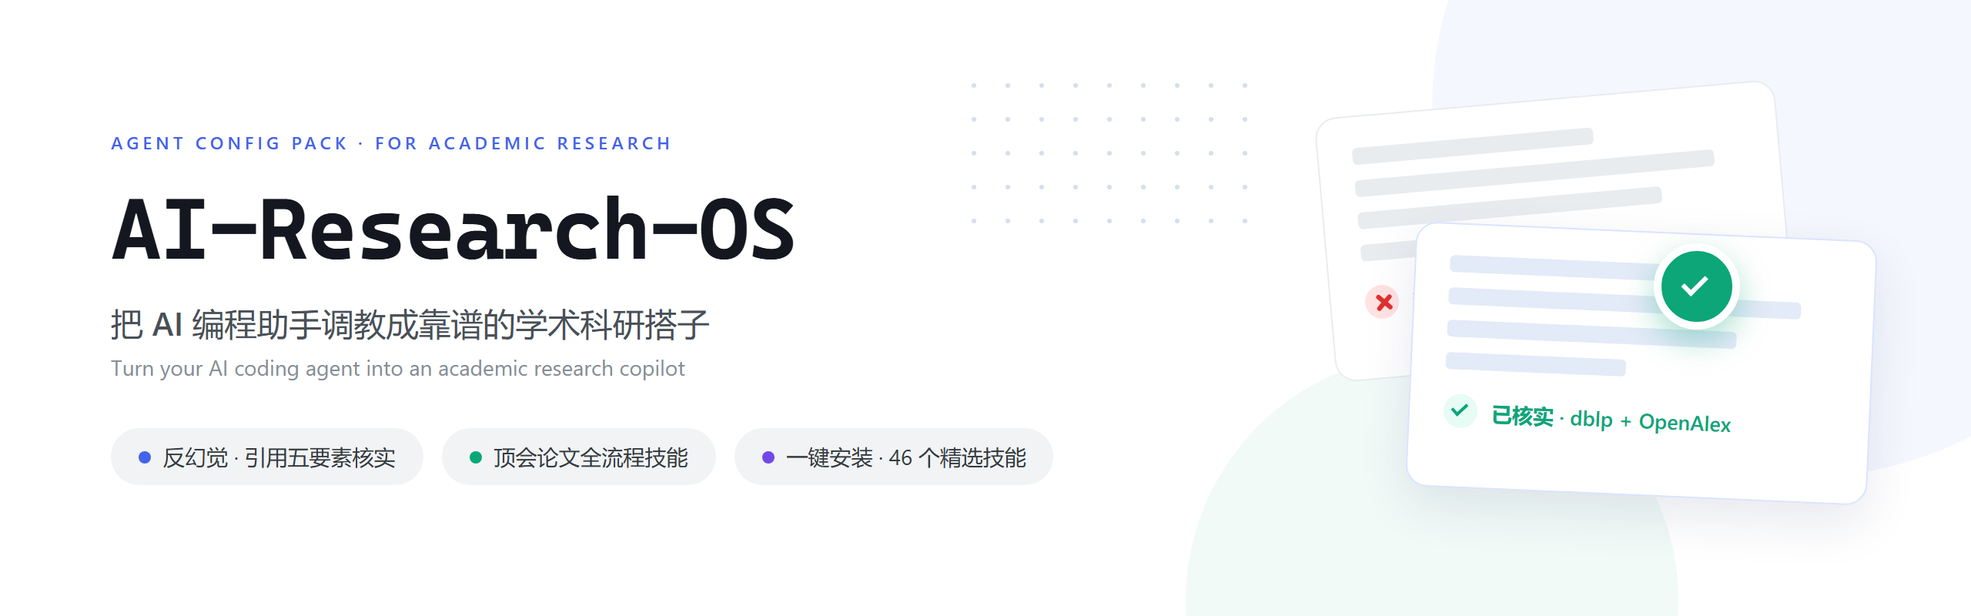
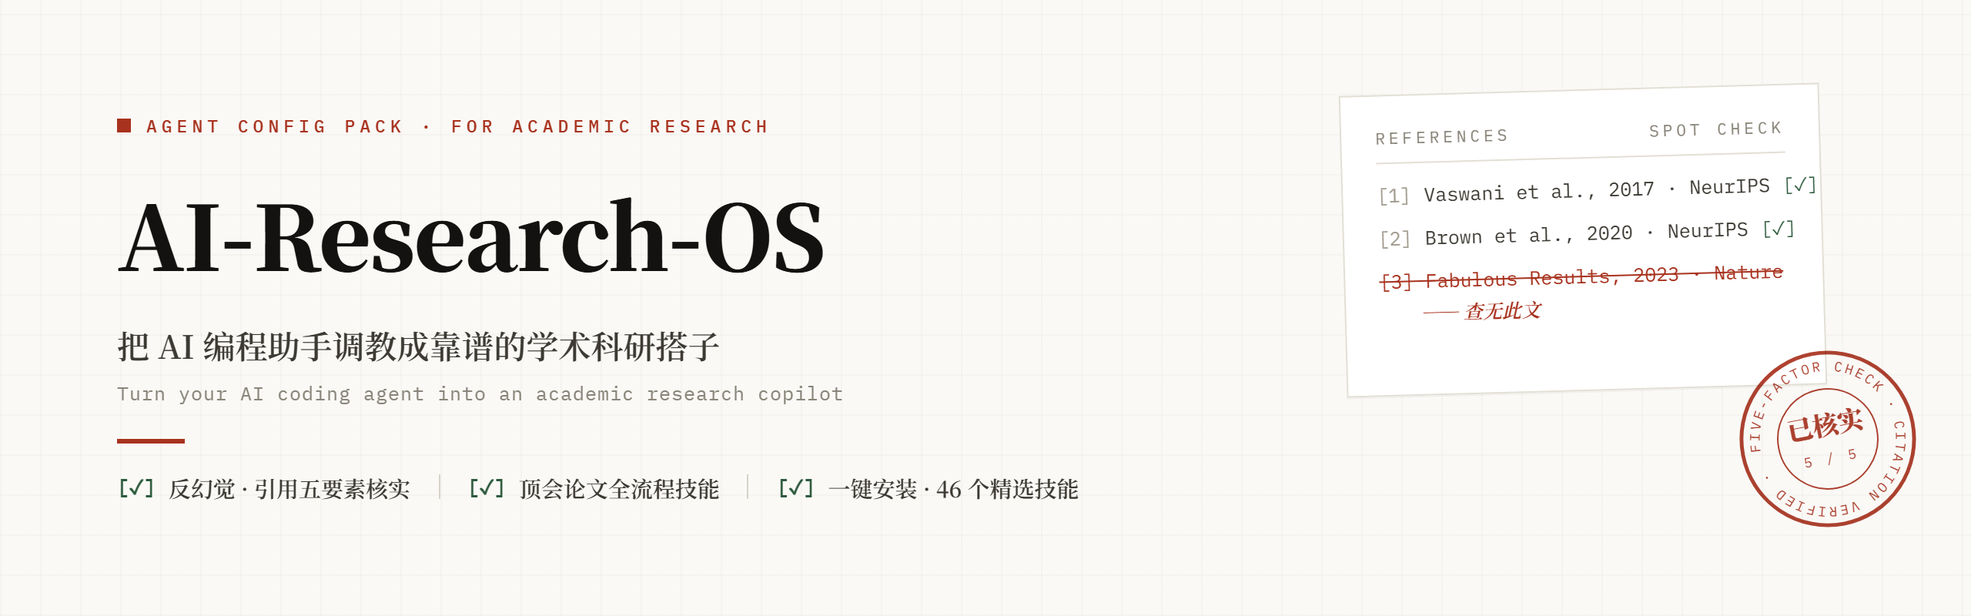
docs(figure): switch to academic-editorial style
- paper background + grid texture, serif titles (Noto Serif SC)
- mono index [01-07] + single accent red replaces candy palette
- footnote-style infra bar; citation spot-check card + rotated
  VERIFIED stamp on banner

diff --git a/docs/images/src/banner.html b/docs/images/src/banner.html
@@ -2,78 +2,80 @@
 <html>
 <head>
 <meta charset="utf-8">
+<link rel="preconnect" href="https://fonts.googleapis.com">
+<link href="https://fonts.googleapis.com/css2?family=IBM+Plex+Mono:wght@400;500;600&family=Noto+Serif+SC:wght@600;700;900&display=swap" rel="stylesheet">
 <style>
   * { margin:0; padding:0; box-sizing:border-box; }
-  body { background:#fff; font-family:"Segoe UI","Microsoft YaHei",sans-serif; }
-  #shot { width:1280px; height:400px; background:#FFFFFF; position:relative; overflow:hidden; }
-  .deco1 { position:absolute; width:480px; height:480px; border-radius:50%; background:rgba(76,110,245,0.055); right:-130px; top:-170px; }
-  .deco2 { position:absolute; width:320px; height:320px; border-radius:50%; background:rgba(12,166,120,0.06); right:190px; bottom:-150px; }
-  .dots { position:absolute; right:470px; top:54px; display:grid; grid-template-columns:repeat(9,1fr); gap:19px; }
-  .dots i { width:3px; height:3px; border-radius:50%; background:#D6DEEE; }
-  .left { position:absolute; left:72px; top:0; height:100%; display:flex; flex-direction:column; justify-content:center; }
-  .badge { font-size:11.5px; font-weight:600; letter-spacing:2.5px; color:#4263EB; }
-  h1 { font-family:"Cascadia Code","Consolas",monospace; font-size:56px; font-weight:700; color:#14171F; margin-top:16px; letter-spacing:-1px; }
-  .sub-cn { font-size:21px; font-weight:500; color:#495057; margin-top:14px; }
-  .sub-en { font-size:14px; color:#868E96; margin-top:6px; }
-  .chips { display:flex; gap:12px; margin-top:30px; }
-  .chip { display:flex; align-items:center; gap:8px; font-size:14px; color:#343A40; background:#F1F3F5; border-radius:999px; padding:9px 18px; white-space:nowrap; }
-  .chip i { width:8px; height:8px; border-radius:50%; }
-  .card { position:absolute; width:300px; height:172px; background:#fff; border-radius:14px; padding:20px 22px; }
-  .back { right:120px; top:64px; border:1px solid #E9ECEF; transform:rotate(-5deg); }
-  .front { right:64px; top:150px; border:1px solid #DBE4FF; box-shadow:0 12px 32px rgba(28,39,86,0.10); transform:rotate(2.5deg); }
-  .bar { height:11px; border-radius:3px; background:#E9ECEF; margin-bottom:10px; }
-  .front .bar { background:#E3EAF8; }
-  .verdict { display:flex; align-items:center; gap:9px; margin-top:16px; }
-  .icon { width:22px; height:22px; border-radius:50%; display:flex; align-items:center; justify-content:center; flex-shrink:0; }
-  .icon.no { background:#FFE3E3; }
-  .icon.yes { background:#E6FCF5; }
-  .x { position:relative; width:11px; height:11px; }
-  .x i { position:absolute; left:5px; top:-1px; width:2.5px; height:13px; background:#E03131; border-radius:2px; }
-  .x i:first-child { transform:rotate(45deg); }
-  .x i:last-child { transform:rotate(-45deg); }
-  .ck { width:10px; height:6px; border-left:2.5px solid #0CA678; border-bottom:2.5px solid #0CA678; transform:rotate(-45deg) translate(1px,-2px); }
-  .vt { font-size:13.5px; font-weight:600; }
-  .stamp { position:absolute; right:150px; top:158px; width:56px; height:56px; border-radius:50%; background:#0CA678; border:5px solid #fff; box-shadow:0 8px 20px rgba(12,166,120,0.35); display:flex; align-items:center; justify-content:center; z-index:3; }
-  .stamp .ck { width:16px; height:9px; border-left:3.5px solid #fff; border-bottom:3.5px solid #fff; transform:rotate(-45deg) translate(1px,-3px); }
+  body { background:#fff; }
+  #shot {
+    width:1280px; height:400px; position:relative; overflow:hidden;
+    background:#FAF9F6;
+    background-image:
+      repeating-linear-gradient(0deg, rgba(26,24,21,0.022) 0, rgba(26,24,21,0.022) 1px, transparent 1px, transparent 26px),
+      repeating-linear-gradient(90deg, rgba(26,24,21,0.022) 0, rgba(26,24,21,0.022) 1px, transparent 1px, transparent 26px);
+    font-family:"Noto Serif SC",Georgia,serif;
+    color:#1A1815;
+  }
+  .left { position:absolute; left:76px; top:0; height:100%; display:flex; flex-direction:column; justify-content:center; }
+  .badge { font-family:"IBM Plex Mono",monospace; font-size:11.5px; font-weight:500; letter-spacing:3px; color:#A8321E; display:flex; align-items:center; gap:10px; }
+  .badge::before { content:""; width:9px; height:9px; background:#A8321E; }
+  h1 { font-size:58px; font-weight:900; letter-spacing:-1px; margin-top:20px; color:#141210; }
+  .sub-cn { font-size:21px; font-weight:600; color:#3D3A33; margin-top:16px; }
+  .sub-en { font-family:"IBM Plex Mono",monospace; font-size:12.5px; color:#8A857A; margin-top:8px; letter-spacing:0.5px; }
+  .rule { width:44px; height:3px; background:#A8321E; margin:22px 0 18px; }
+  .feats { display:flex; align-items:center; }
+  .feat { font-size:14.5px; font-weight:600; color:#3D3A33; display:flex; align-items:center; gap:8px; }
+  .feat b { font-family:"IBM Plex Mono",monospace; font-weight:600; font-size:13px; color:#2D5A3D; }
+  .fsep { width:1px; height:16px; background:#D8D3C8; margin:0 18px; }
+  .refs {
+    position:absolute; right:96px; top:58px; width:312px; height:196px;
+    background:#FFFFFF; border:1px solid #E3DFD5;
+    transform:rotate(-1.6deg); padding:20px 22px;
+    box-shadow:0 1px 0 rgba(26,24,21,0.04);
+  }
+  .rhead { font-family:"IBM Plex Mono",monospace; font-size:10.5px; letter-spacing:2.5px; color:#8A857A; padding-bottom:9px; border-bottom:1px solid #E3DFD5; display:flex; justify-content:space-between; }
+  .ritem { display:flex; align-items:baseline; gap:8px; margin-top:12px; font-family:"IBM Plex Mono",monospace; font-size:12.5px; color:#3D3A33; white-space:nowrap; }
+  .ritem .no { color:#A29C8F; }
+  .ritem .ok { margin-left:auto; color:#2D5A3D; font-size:12px; }
+  .rbad { margin-top:12px; }
+  .rbad .line { font-family:"IBM Plex Mono",monospace; font-size:12.5px; color:#A8321E; text-decoration:line-through; text-decoration-thickness:1px; white-space:nowrap; }
+  .rbad .mark { font-size:12.5px; color:#A8321E; margin-top:4px; font-style:italic; font-weight:600; padding-left:26px; }
+  .stamp { position:absolute; right:34px; top:226px; width:118px; height:118px; transform:rotate(-11deg); mix-blend-mode:multiply; opacity:0.92; z-index:3; }
 </style>
 </head>
 <body>
 <div id="shot">
-  <div class="deco1"></div>
-  <div class="deco2"></div>
-  <div class="dots">
-    <i></i><i></i><i></i><i></i><i></i><i></i><i></i><i></i><i></i>
-    <i></i><i></i><i></i><i></i><i></i><i></i><i></i><i></i><i></i>
-    <i></i><i></i><i></i><i></i><i></i><i></i><i></i><i></i><i></i>
-    <i></i><i></i><i></i><i></i><i></i><i></i><i></i><i></i><i></i>
-    <i></i><i></i><i></i><i></i><i></i><i></i><i></i><i></i><i></i>
-  </div>
   <div class="left">
     <div class="badge">AGENT CONFIG PACK · FOR ACADEMIC RESEARCH</div>
     <h1>AI-Research-OS</h1>
     <div class="sub-cn">把 AI 编程助手调教成靠谱的学术科研搭子</div>
     <div class="sub-en">Turn your AI coding agent into an academic research copilot</div>
-    <div class="chips">
-      <span class="chip"><i style="background:#4263EB"></i>反幻觉 · 引用五要素核实</span>
-      <span class="chip"><i style="background:#0CA678"></i>顶会论文全流程技能</span>
-      <span class="chip"><i style="background:#7048E8"></i>一键安装 · 46 个精选技能</span>
+    <div class="rule"></div>
+    <div class="feats">
+      <span class="feat"><b>[✓]</b>反幻觉 · 引用五要素核实</span>
+      <span class="fsep"></span>
+      <span class="feat"><b>[✓]</b>顶会论文全流程技能</span>
+      <span class="fsep"></span>
+      <span class="feat"><b>[✓]</b>一键安装 · 46 个精选技能</span>
     </div>
   </div>
-  <div class="card back">
-    <div class="bar" style="width:62%"></div>
-    <div class="bar" style="width:92%"></div>
-    <div class="bar" style="width:78%"></div>
-    <div class="bar" style="width:50%; margin-bottom:0"></div>
-    <div class="verdict"><span class="icon no"><span class="x"><i></i><i></i></span></span><span class="vt" style="color:#E03131">查无此文</span></div>
+  <div class="refs">
+    <div class="rhead"><span>REFERENCES</span><span>SPOT CHECK</span></div>
+    <div class="ritem"><span class="no">[1]</span>Vaswani et al., 2017 · NeurIPS<span class="ok">[✓]</span></div>
+    <div class="ritem"><span class="no">[2]</span>Brown et al., 2020 · NeurIPS<span class="ok">[✓]</span></div>
+    <div class="rbad">
+      <div class="line">[3] Fabulous Results, 2023 · Nature</div>
+      <div class="mark">—— 查无此文</div>
+    </div>
   </div>
-  <div class="card front">
-    <div class="bar" style="width:58%"></div>
-    <div class="bar" style="width:90%"></div>
-    <div class="bar" style="width:74%"></div>
-    <div class="bar" style="width:46%; margin-bottom:0"></div>
-    <div class="verdict"><span class="icon yes"><span class="ck"></span></span><span class="vt" style="color:#0CA678">已核实 · dblp + OpenAlex</span></div>
-  </div>
-  <div class="stamp"><span class="ck"></span></div>
+  <svg class="stamp" viewBox="0 0 120 120">
+    <defs><path id="cir" d="M60,60 m-45,0 a45,45 0 1,1 90,0 a45,45 0 1,1 -90,0"/></defs>
+    <circle cx="60" cy="60" r="57" fill="none" stroke="#A8321E" stroke-width="2.5"/>
+    <circle cx="60" cy="60" r="33" fill="none" stroke="#A8321E" stroke-width="1"/>
+    <text font-family="IBM Plex Mono,monospace" font-size="9" letter-spacing="1.5" fill="#A8321E"><textPath href="#cir">FIVE-FACTOR CHECK · CITATION VERIFIED ·</textPath></text>
+    <text x="60" y="57" text-anchor="middle" font-family="'Noto Serif SC',serif" font-weight="900" font-size="17" fill="#A8321E">已核实</text>
+    <text x="60" y="76" text-anchor="middle" font-family="IBM Plex Mono,monospace" font-size="9" letter-spacing="2" fill="#A8321E">5 / 5</text>
+  </svg>
 </div>
 </body>
 </html>

diff --git a/docs/images/src/workflow-dark.html b/docs/images/src/workflow-dark.html
@@ -2,27 +2,38 @@
 <html>
 <head>
 <meta charset="utf-8">
+<link rel="preconnect" href="https://fonts.googleapis.com">
+<link href="https://fonts.googleapis.com/css2?family=IBM+Plex+Mono:wght@400;500;600&family=Noto+Serif+SC:wght@600;700;900&display=swap" rel="stylesheet">
 <style>
   * { margin:0; padding:0; box-sizing:border-box; }
-  body { background:#0d1117; font-family:"Segoe UI","Microsoft YaHei",sans-serif; }
-  #shot { width:830px; height:480px; background:#0D1117; display:flex; flex-direction:column; }
-  .main { flex:1; display:flex; padding:38px 40px 22px; gap:40px; min-height:0; }
-  .left { width:240px; flex-shrink:0; display:flex; flex-direction:column; padding-top:6px; }
-  .eyebrow { font-size:12px; font-weight:600; letter-spacing:3px; color:#79C0FF; }
-  .title { font-size:30px; font-weight:700; color:#F0F6FC; margin-top:10px; }
-  .rule { width:34px; height:3px; background:#1F6FEB; border-radius:2px; margin:16px 0 14px; }
-  .desc { font-size:15px; color:#8B949E; line-height:1.75; }
-  .note { margin-top:auto; font-size:12.5px; color:#6E7681; line-height:1.6; }
-  .steps { flex:1; display:flex; flex-direction:column; justify-content:space-between; position:relative; padding:2px 0; }
-  .vline { position:absolute; left:12.5px; top:16px; bottom:16px; width:2px; background:#21262D; border-radius:1px; }
-  .row { display:flex; align-items:center; gap:14px; position:relative; }
-  .num { width:27px; height:27px; border-radius:50%; color:#0D1117; font-size:13.5px; font-weight:700; display:flex; align-items:center; justify-content:center; flex-shrink:0; }
-  .name { font-size:18px; font-weight:600; color:#E6EDF3; width:92px; flex-shrink:0; }
-  .chip { font-family:"Cascadia Code","Consolas",monospace; font-size:13px; color:#79C0FF; background:rgba(88,166,255,0.12); border:1px solid rgba(88,166,255,0.28); border-radius:6px; padding:5px 11px; white-space:nowrap; }
-  .base { height:56px; background:#161B22; border-top:1px solid #21262D; display:flex; align-items:center; padding:0 40px; gap:20px; flex-shrink:0; }
-  .btag { font-size:13px; font-weight:600; color:#C9D1D9; flex-shrink:0; }
-  .bitem { display:flex; align-items:center; gap:7px; font-size:13px; color:#C9D1D9; white-space:nowrap; }
-  .dot { width:7px; height:7px; border-radius:2px; background:#58A6FF; flex-shrink:0; }
+  body { background:#161310; }
+  #shot {
+    width:830px; height:480px; display:flex; flex-direction:column;
+    background:#161310;
+    background-image:
+      repeating-linear-gradient(0deg, rgba(240,233,220,0.022) 0, rgba(240,233,220,0.022) 1px, transparent 1px, transparent 26px),
+      repeating-linear-gradient(90deg, rgba(240,233,220,0.022) 0, rgba(240,233,220,0.022) 1px, transparent 1px, transparent 26px);
+    font-family:"Noto Serif SC",Georgia,serif; color:#ECE7DC;
+  }
+  .main { flex:1; display:flex; padding:40px 42px 20px; gap:42px; min-height:0; }
+  .left { width:238px; flex-shrink:0; display:flex; flex-direction:column; padding-top:4px; }
+  .eyebrow { font-family:"IBM Plex Mono",monospace; font-size:11px; font-weight:600; letter-spacing:3px; color:#D08770; }
+  .title { font-size:31px; font-weight:900; color:#F4F0E6; margin-top:12px; }
+  .rule { width:30px; height:3px; background:#D08770; margin:16px 0 14px; }
+  .desc { font-size:15px; color:#A39C8E; line-height:1.85; }
+  .note { margin-top:auto; font-family:"IBM Plex Mono",monospace; font-size:11.5px; color:#7A7466; line-height:1.7; }
+  .steps { flex:1; display:flex; flex-direction:column; justify-content:space-between; position:relative; padding:4px 0; }
+  .vline { position:absolute; left:19px; top:18px; bottom:18px; width:1px; background:#2E2A24; }
+  .row { display:flex; align-items:center; gap:16px; position:relative; }
+  .no { font-family:"IBM Plex Mono",monospace; font-size:13px; font-weight:600; color:#D08770; width:40px; flex-shrink:0; background:#161310; }
+  .name { font-size:18px; font-weight:700; color:#F0EBDF; width:94px; flex-shrink:0; }
+  .skill { font-family:"IBM Plex Mono",monospace; font-size:12.5px; color:#A39C8E; border-left:2px solid #D08770; padding-left:11px; white-space:nowrap; }
+  .base { flex-shrink:0; margin:0 42px; padding:12px 0 18px; border-top:1px solid #3A352C; position:relative; }
+  .base::before { content:""; position:absolute; top:-1px; left:0; width:64px; border-top:2px solid #F0EBDF; }
+  .base .in { display:flex; align-items:baseline; gap:14px; white-space:nowrap; }
+  .btag { font-size:13.5px; font-weight:700; color:#F0EBDF; }
+  .bsep { font-family:"IBM Plex Mono",monospace; font-size:12.5px; color:#7A7466; }
+  .bitem { font-family:"IBM Plex Mono",monospace; font-size:12.5px; color:#A39C8E; }
 </style>
 </head>
 <body>
@@ -33,25 +44,31 @@
       <div class="title">科研工作流全景</div>
       <div class="rule"></div>
       <div class="desc">从定方向到投稿防守，每一步都有对应的技能与工具兜底。</div>
-      <div class="note">46 个精选技能 · 按场景自动触发</div>
+      <div class="note">46 skills · auto-triggered<br>figures rebuilt from src/</div>
     </div>
     <div class="steps">
       <div class="vline"></div>
-      <div class="row"><span class="num" style="background:#748FFC">1</span><span class="name">定方向</span><span class="chip">/phd-skills:gaps</span></div>
-      <div class="row"><span class="num" style="background:#6D9EF7">2</span><span class="name">查文献</span><span class="chip">paper-search MCP</span></div>
-      <div class="row"><span class="num" style="background:#63ADF0">3</span><span class="name">复现</span><span class="chip">reproduce</span></div>
-      <div class="row"><span class="num" style="background:#57BBE6">4</span><span class="name">跑实验</span><span class="chip">launch · compare · debug</span></div>
-      <div class="row"><span class="num" style="background:#45C5DA">5</span><span class="name">画图</span><span class="chip">scientific-visualization</span></div>
-      <div class="row"><span class="num" style="background:#38CDBD">6</span><span class="name">写论文</span><span class="chip">research-paper-writing</span></div>
-      <div class="row"><span class="num" style="background:#2DD4A7">7</span><span class="name">投稿防守</span><span class="chip">fortify · factcheck</span></div>
+      <div class="row"><span class="no">[01]</span><span class="name">定方向</span><span class="skill">/phd-skills:gaps</span></div>
+      <div class="row"><span class="no">[02]</span><span class="name">查文献</span><span class="skill">paper-search MCP</span></div>
+      <div class="row"><span class="no">[03]</span><span class="name">复现</span><span class="skill">reproduce</span></div>
+      <div class="row"><span class="no">[04]</span><span class="name">跑实验</span><span class="skill">launch · compare · debug</span></div>
+      <div class="row"><span class="no">[05]</span><span class="name">画图</span><span class="skill">scientific-visualization</span></div>
+      <div class="row"><span class="no">[06]</span><span class="name">写论文</span><span class="skill">research-paper-writing</span></div>
+      <div class="row"><span class="no">[07]</span><span class="name">投稿防守</span><span class="skill">fortify · factcheck</span></div>
     </div>
   </div>
   <div class="base">
-    <span class="btag">支撑层</span>
-    <span class="bitem"><span class="dot"></span>AGENTS.md · 反幻觉纪律</span>
-    <span class="bitem"><span class="dot"></span>paper-search MCP · 20+ 源</span>
-    <span class="bitem"><span class="dot"></span>proxy · 代理自感应</span>
-    <span class="bitem"><span class="dot"></span>notify · 提醒</span>
+    <div class="in">
+      <span class="btag">支撑层</span>
+      <span class="bsep">──</span>
+      <span class="bitem">AGENTS.md 反幻觉纪律</span>
+      <span class="bsep">/</span>
+      <span class="bitem">paper-search MCP · 20+ 源</span>
+      <span class="bsep">/</span>
+      <span class="bitem">proxy 代理自感应</span>
+      <span class="bsep">/</span>
+      <span class="bitem">notify 提醒</span>
+    </div>
   </div>
 </div>
 </body>

diff --git a/docs/images/src/workflow-light.html b/docs/images/src/workflow-light.html
@@ -2,27 +2,38 @@
 <html>
 <head>
 <meta charset="utf-8">
+<link rel="preconnect" href="https://fonts.googleapis.com">
+<link href="https://fonts.googleapis.com/css2?family=IBM+Plex+Mono:wght@400;500;600&family=Noto+Serif+SC:wght@600;700;900&display=swap" rel="stylesheet">
 <style>
   * { margin:0; padding:0; box-sizing:border-box; }
-  body { background:#fff; font-family:"Segoe UI","Microsoft YaHei",sans-serif; }
-  #shot { width:830px; height:480px; background:#FFFFFF; display:flex; flex-direction:column; }
-  .main { flex:1; display:flex; padding:38px 40px 22px; gap:40px; min-height:0; }
-  .left { width:240px; flex-shrink:0; display:flex; flex-direction:column; padding-top:6px; }
-  .eyebrow { font-size:12px; font-weight:600; letter-spacing:3px; color:#4263EB; }
-  .title { font-size:30px; font-weight:700; color:#1A1B25; margin-top:10px; }
-  .rule { width:34px; height:3px; background:#4263EB; border-radius:2px; margin:16px 0 14px; }
-  .desc { font-size:15px; color:#495057; line-height:1.75; }
-  .note { margin-top:auto; font-size:12.5px; color:#868E96; line-height:1.6; }
-  .steps { flex:1; display:flex; flex-direction:column; justify-content:space-between; position:relative; padding:2px 0; }
-  .vline { position:absolute; left:12.5px; top:16px; bottom:16px; width:2px; background:#E9ECEF; border-radius:1px; }
-  .row { display:flex; align-items:center; gap:14px; position:relative; }
-  .num { width:27px; height:27px; border-radius:50%; color:#fff; font-size:13.5px; font-weight:600; display:flex; align-items:center; justify-content:center; flex-shrink:0; }
-  .name { font-size:18px; font-weight:600; color:#212529; width:92px; flex-shrink:0; }
-  .chip { font-family:"Cascadia Code","Consolas",monospace; font-size:13px; color:#364FC7; background:#EDF2FF; border:1px solid #DBE4FF; border-radius:6px; padding:5px 11px; white-space:nowrap; }
-  .base { height:56px; background:#F8F9FA; border-top:1px solid #E9ECEF; display:flex; align-items:center; padding:0 40px; gap:20px; flex-shrink:0; }
-  .btag { font-size:13px; font-weight:600; color:#495057; flex-shrink:0; }
-  .bitem { display:flex; align-items:center; gap:7px; font-size:13px; color:#495057; white-space:nowrap; }
-  .dot { width:7px; height:7px; border-radius:2px; background:#4263EB; flex-shrink:0; }
+  body { background:#fff; }
+  #shot {
+    width:830px; height:480px; display:flex; flex-direction:column;
+    background:#FAF9F6;
+    background-image:
+      repeating-linear-gradient(0deg, rgba(26,24,21,0.02) 0, rgba(26,24,21,0.02) 1px, transparent 1px, transparent 26px),
+      repeating-linear-gradient(90deg, rgba(26,24,21,0.02) 0, rgba(26,24,21,0.02) 1px, transparent 1px, transparent 26px);
+    font-family:"Noto Serif SC",Georgia,serif; color:#1A1815;
+  }
+  .main { flex:1; display:flex; padding:40px 42px 20px; gap:42px; min-height:0; }
+  .left { width:238px; flex-shrink:0; display:flex; flex-direction:column; padding-top:4px; }
+  .eyebrow { font-family:"IBM Plex Mono",monospace; font-size:11px; font-weight:600; letter-spacing:3px; color:#A8321E; }
+  .title { font-size:31px; font-weight:900; color:#141210; margin-top:12px; }
+  .rule { width:30px; height:3px; background:#A8321E; margin:16px 0 14px; }
+  .desc { font-size:15px; color:#57534A; line-height:1.85; }
+  .note { margin-top:auto; font-family:"IBM Plex Mono",monospace; font-size:11.5px; color:#A29C8F; line-height:1.7; }
+  .steps { flex:1; display:flex; flex-direction:column; justify-content:space-between; position:relative; padding:4px 0; }
+  .vline { position:absolute; left:19px; top:18px; bottom:18px; width:1px; background:#E0DCD2; }
+  .row { display:flex; align-items:center; gap:16px; position:relative; }
+  .no { font-family:"IBM Plex Mono",monospace; font-size:13px; font-weight:600; color:#A8321E; width:40px; flex-shrink:0; background:#FAF9F6; }
+  .name { font-size:18px; font-weight:700; color:#211E19; width:94px; flex-shrink:0; }
+  .skill { font-family:"IBM Plex Mono",monospace; font-size:12.5px; color:#57534A; border-left:2px solid #A8321E; padding-left:11px; white-space:nowrap; }
+  .base { flex-shrink:0; margin:0 42px; padding:12px 0 18px; border-top:1px solid #D8D3C8; position:relative; }
+  .base::before { content:""; position:absolute; top:-1px; left:0; width:64px; border-top:2px solid #1A1815; }
+  .base .in { display:flex; align-items:baseline; gap:14px; white-space:nowrap; }
+  .btag { font-size:13.5px; font-weight:700; color:#211E19; }
+  .bsep { font-family:"IBM Plex Mono",monospace; font-size:12.5px; color:#A29C8F; }
+  .bitem { font-family:"IBM Plex Mono",monospace; font-size:12.5px; color:#57534A; }
 </style>
 </head>
 <body>
@@ -33,25 +44,31 @@
       <div class="title">科研工作流全景</div>
       <div class="rule"></div>
       <div class="desc">从定方向到投稿防守，每一步都有对应的技能与工具兜底。</div>
-      <div class="note">46 个精选技能 · 按场景自动触发</div>
+      <div class="note">46 skills · auto-triggered<br>figures rebuilt from src/</div>
     </div>
     <div class="steps">
       <div class="vline"></div>
-      <div class="row"><span class="num" style="background:#364FC7">1</span><span class="name">定方向</span><span class="chip">/phd-skills:gaps</span></div>
-      <div class="row"><span class="num" style="background:#2E62C6">2</span><span class="name">查文献</span><span class="chip">paper-search MCP</span></div>
-      <div class="row"><span class="num" style="background:#2675C4">3</span><span class="name">复现</span><span class="chip">reproduce</span></div>
-      <div class="row"><span class="num" style="background:#1D88C0">4</span><span class="name">跑实验</span><span class="chip">launch · compare · debug</span></div>
-      <div class="row"><span class="num" style="background:#1798B2">5</span><span class="name">画图</span><span class="chip">scientific-visualization</span></div>
-      <div class="row"><span class="num" style="background:#12A38B">6</span><span class="name">写论文</span><span class="chip">research-paper-writing</span></div>
-      <div class="row"><span class="num" style="background:#0CA678">7</span><span class="name">投稿防守</span><span class="chip">fortify · factcheck</span></div>
+      <div class="row"><span class="no">[01]</span><span class="name">定方向</span><span class="skill">/phd-skills:gaps</span></div>
+      <div class="row"><span class="no">[02]</span><span class="name">查文献</span><span class="skill">paper-search MCP</span></div>
+      <div class="row"><span class="no">[03]</span><span class="name">复现</span><span class="skill">reproduce</span></div>
+      <div class="row"><span class="no">[04]</span><span class="name">跑实验</span><span class="skill">launch · compare · debug</span></div>
+      <div class="row"><span class="no">[05]</span><span class="name">画图</span><span class="skill">scientific-visualization</span></div>
+      <div class="row"><span class="no">[06]</span><span class="name">写论文</span><span class="skill">research-paper-writing</span></div>
+      <div class="row"><span class="no">[07]</span><span class="name">投稿防守</span><span class="skill">fortify · factcheck</span></div>
     </div>
   </div>
   <div class="base">
-    <span class="btag">支撑层</span>
-    <span class="bitem"><span class="dot"></span>AGENTS.md · 反幻觉纪律</span>
-    <span class="bitem"><span class="dot"></span>paper-search MCP · 20+ 源</span>
-    <span class="bitem"><span class="dot"></span>proxy · 代理自感应</span>
-    <span class="bitem"><span class="dot"></span>notify · 提醒</span>
+    <div class="in">
+      <span class="btag">支撑层</span>
+      <span class="bsep">──</span>
+      <span class="bitem">AGENTS.md 反幻觉纪律</span>
+      <span class="bsep">/</span>
+      <span class="bitem">paper-search MCP · 20+ 源</span>
+      <span class="bsep">/</span>
+      <span class="bitem">proxy 代理自感应</span>
+      <span class="bsep">/</span>
+      <span class="bitem">notify 提醒</span>
+    </div>
   </div>
 </div>
 </body>

diff --git a/docs/images/src/build_images.py b/docs/images/src/build_images.py
@@ -26,7 +26,13 @@ def main() -> None:
                 device_scale_factor=2,
             )
             page.goto((SRC / html).as_uri())
-            page.wait_for_timeout(250)
+            try:
+                page.wait_for_function(
+                    "document.fonts.status === 'loaded'", timeout=10000
+                )
+            except Exception:
+                pass  # offline: fall back to system fonts
+            page.wait_for_timeout(200)
             page.locator("#shot").screenshot(path=str(OUT / png))
             page.close()
             print(f"built {png}")
